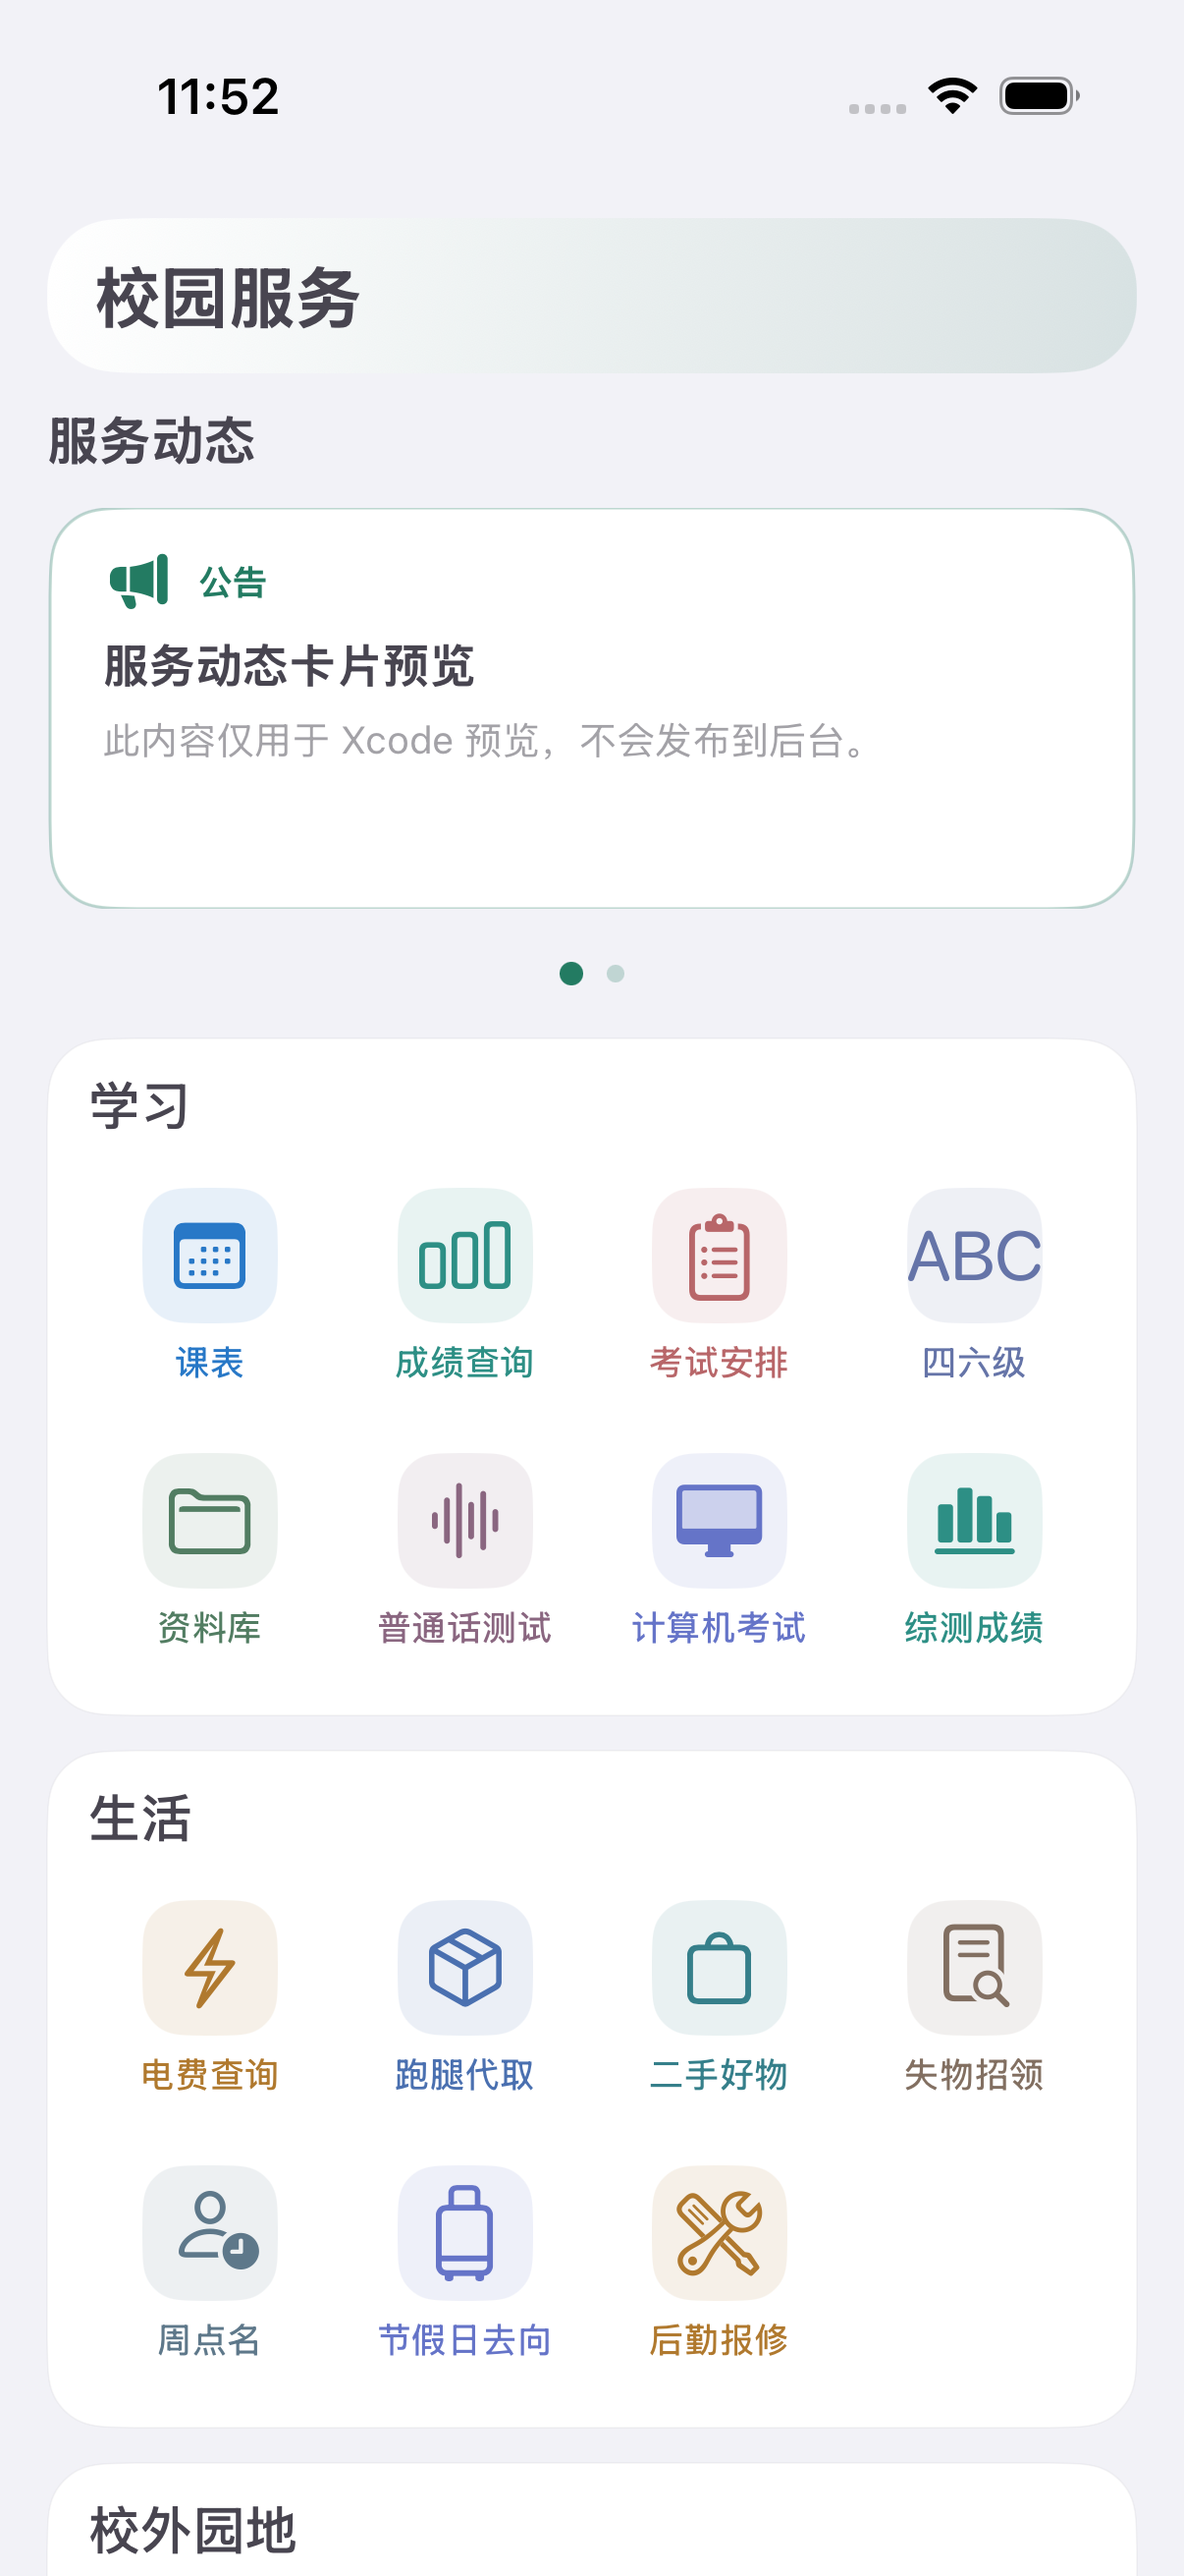
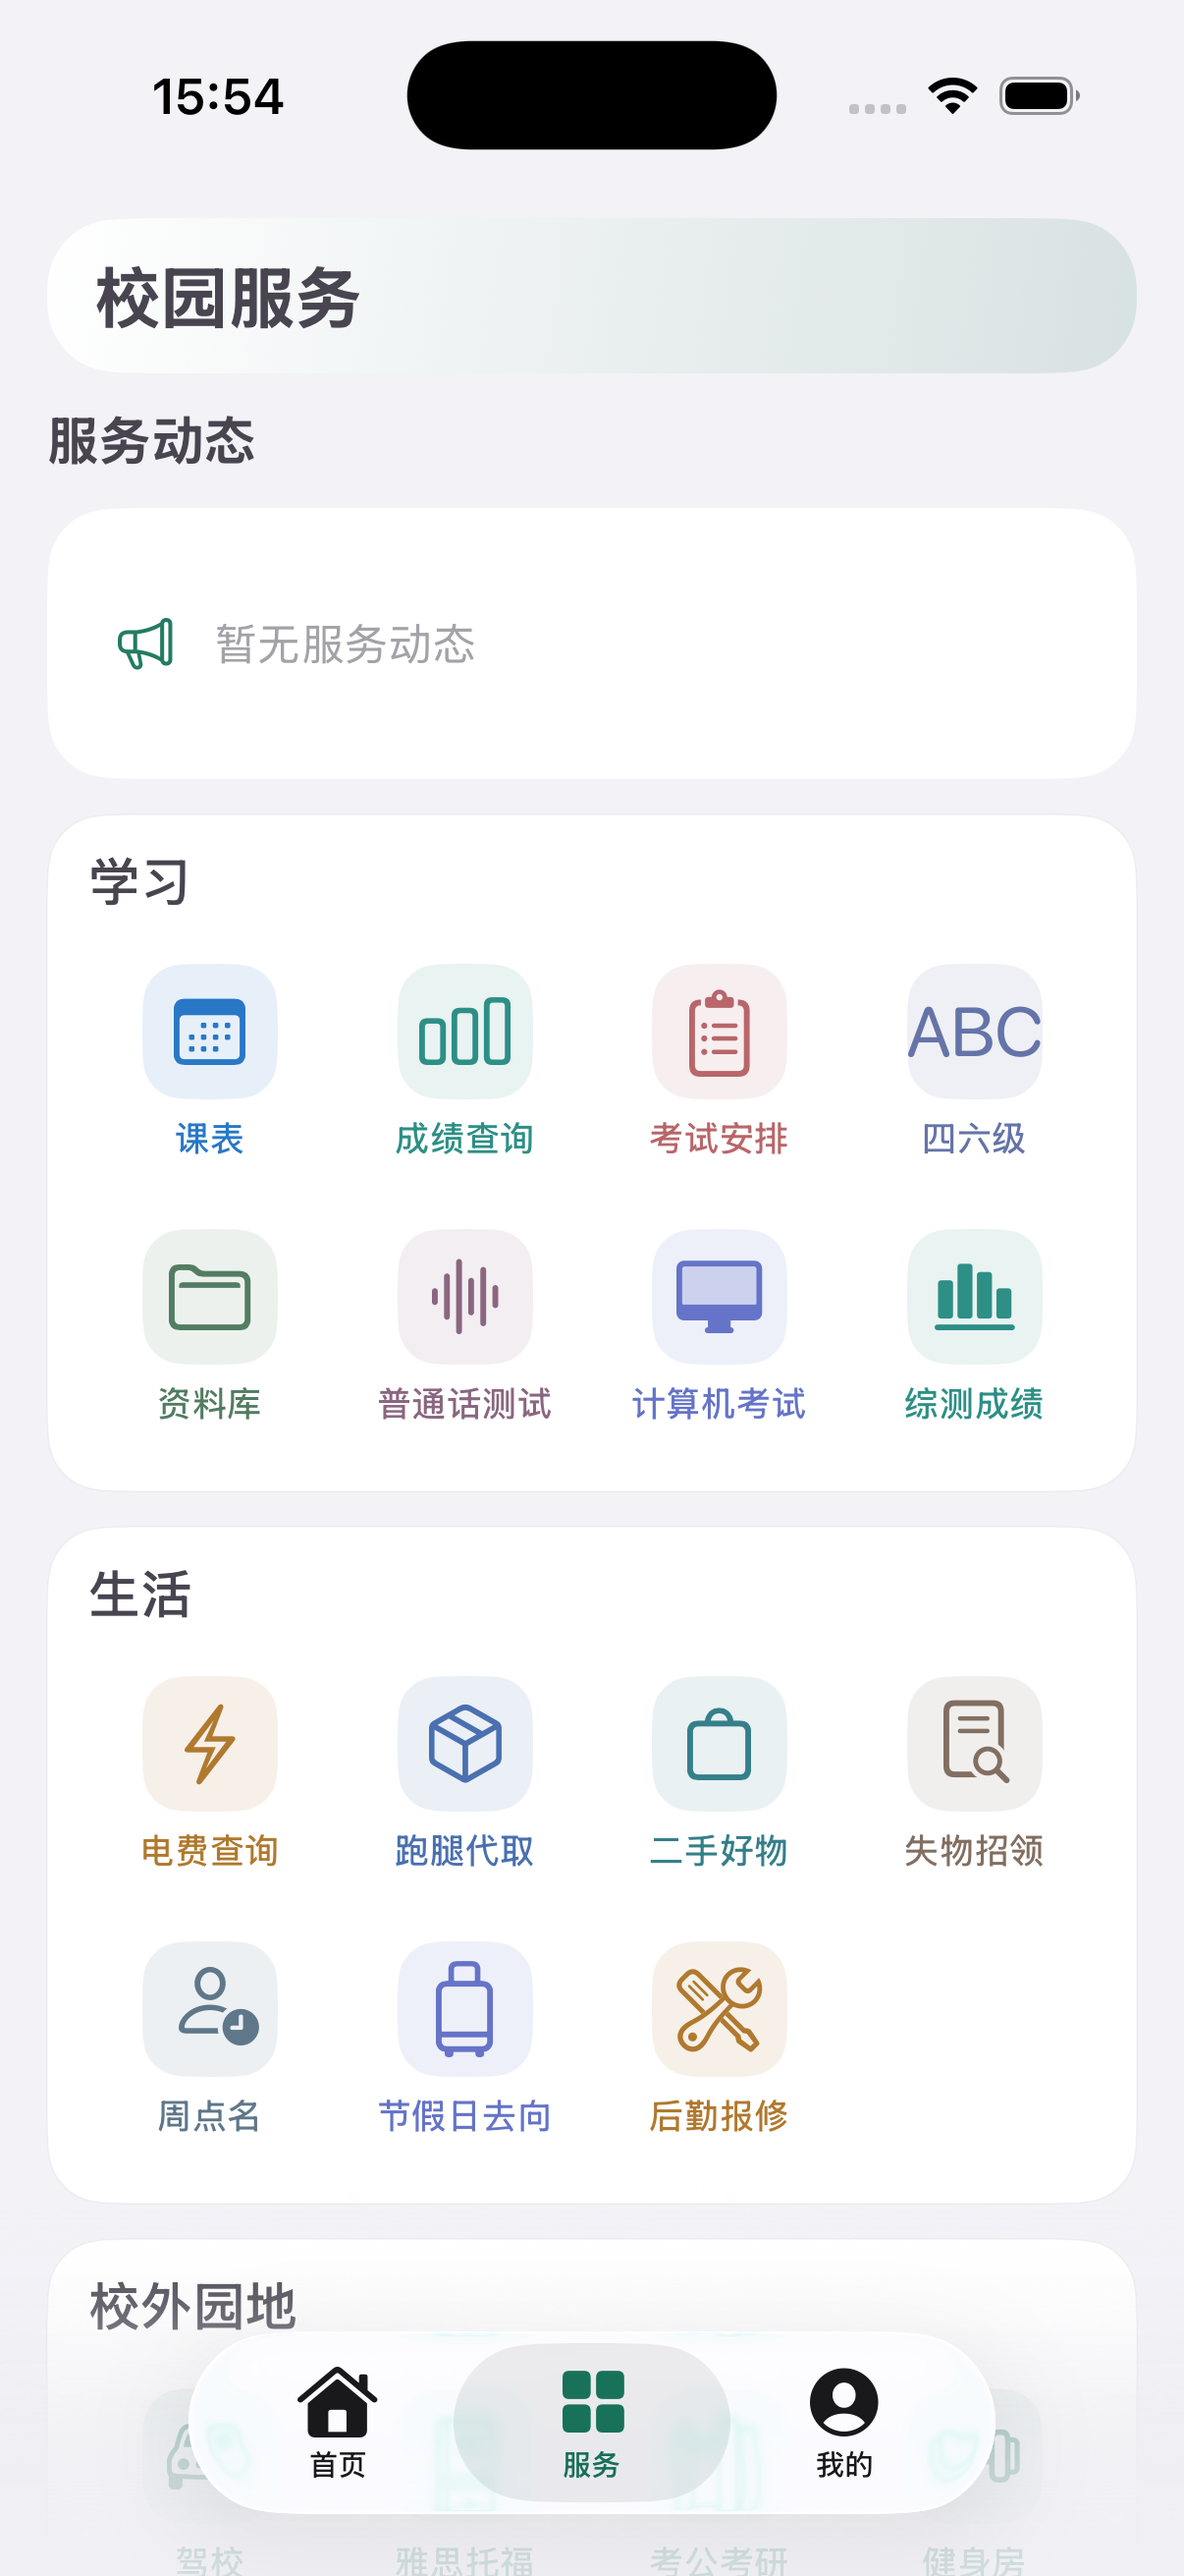
Update MyChuannong website content

diff --git a/privacy.html b/privacy.html
@@ -75,7 +75,7 @@
 <div>
 <h2>学校登录资料与账号关联</h2>
 
-<p>同意本版政策后，应用读取本人登录后的学校资料，将姓名、学号、学校返回的年级或入学年份发送到我的川农后台，供超级管理员完整查看使用学生、设备及最近活跃时间。未登录平台账号时手机号为空，登录后关联该平台账号的注册手机号。年级使用学校明确返回值，或根据学校入学年份以九月为学年边界换算；无来源则留空，不按学号猜测。姓名与学号加密保存，观察记录保留180天；解除学校绑定后在下次前台联网时删除该安装的学校资料，注销时删除对应记录。客户端读取不自动等同于后台人工核验。学校密码、验证码、Cookie、令牌、课表、成绩和考试不上报。</p>
+<p>同意本版政策后，应用读取本人登录后的学校资料，将姓名、学号、学校返回的年级或入学年份发送到我的川农后台，供超级管理员查看学生资料、设备及最近活跃时间。未登录平台账号时手机号为空，登录后关联该平台账号的注册手机号。年级使用学校明确返回值，或根据学校入学年份以九月为学年边界换算；无来源则留空，不按学号猜测。姓名与学号加密保存，观察记录保留180天；解除学校绑定后在下次前台联网时删除该安装的学校资料，注销时删除对应记录。客户端读取不自动等同于后台人工核验。学校密码、验证码、Cookie、令牌、课表、成绩和考试不上报。</p>
 </div>
 </section>
 
@@ -155,7 +155,7 @@
 <div>
 <h2>共享和公开展示</h2>
 
-<p>不会将学校认证和学习数据共享给自有后台或机构。社区发布时，您选择公开的内容及联系方式会向其他用户展示；机构预约只向处理预约所需的授权运营人员提供必要信息。第三方跑腿和外部链接由您主动进入，不自动转交平台密码或学校凭据。新增处理目的或信息种类时，先更新告知并在需要时重新取得同意。</p>
+<p>学校认证凭据、会话及课表、成绩和考试数据不会上传我的川农后台或提供给机构。姓名、学号及学校返回的年级或入学年份按上文所述上传我的川农后台，不提供给机构。社区发布时，您选择公开的内容及联系方式会向其他用户展示；机构预约只向处理预约所需的授权运营人员提供必要信息。第三方跑腿和外部链接由您主动进入，不自动转交平台密码或学校凭据。新增处理目的或信息种类时，先更新告知并在需要时重新取得同意。</p>
 </div>
 </section>
 
@@ -163,7 +163,7 @@
 <div>
 <h2>您的权利与联系途径</h2>
 
-<p>您可在平台账号页查看、更正资料、退出登录或以当前密码申请注销；在绑定学号中解除学校绑定；在账号与数据管理中清除缓存。查阅、复制、更正、删除或撤回同意的请求，可通过“我的 → 意见反馈”提交，勿附密码或验证码。停止使用可直接关闭应用；如要移除后台账号资料，请使用注销入口。收到信息权利请求后，我们会核实身份并在十五个工作日内答复。</p>
+<p>您可在平台账号页查看、更正资料、退出登录或以当前密码申请注销；在绑定学号中解除学校绑定；在账号与数据管理中清除缓存。查阅、复制、更正、删除或撤回同意的请求，可通过“我的 → 我的川农官网（最新消息）→ 联系与反馈”提交，勿附密码或验证码。停止使用可直接关闭应用；如要移除后台账号资料，请使用注销入口。收到信息权利请求后，我们会核实身份并在十五个工作日内答复。</p>
 </div>
 </section>
 
@@ -171,7 +171,7 @@
 <div>
 <h2>未成年人及政策更新</h2>
 
-<p>未满十四周岁者请勿自行提交个人信息；如发现此类信息，请通过意见反馈联系处理。政策更新会在协议入口标明版本；处理目的、方式或信息范围发生变化时重新征求同意。当前版本更新日期为 2026 年 10 月 26 日。</p>
+<p>未满十四周岁者请勿自行提交个人信息；如发现此类信息，请通过意见反馈联系处理。政策更新会在协议入口标明版本；处理目的、方式或信息范围发生变化时重新征求同意。本版处理范围确定于 2026 年 10 月 26 日，文字澄清于 2026 年 11 月 4 日。</p>
 </div>
 </section>
 </div>

diff --git a/collection.html b/collection.html
@@ -73,7 +73,7 @@
 <div>
 <h2>学校登录资料</h2>
 
-<p>同意本版政策后，应用读取本人登录后的学校资料，将姓名、学号、学校返回的年级或入学年份发送到我的川农后台，供超级管理员完整查看使用学生、设备及最近活跃时间。未登录平台账号时手机号为空，登录后关联该平台账号的注册手机号。年级使用学校明确返回值，或根据学校入学年份以九月为学年边界换算；无来源则留空，不按学号猜测。姓名与学号加密保存，观察记录保留180天；解除学校绑定后在下次前台联网时删除该安装的学校资料，注销时删除对应记录。客户端读取不自动等同于后台人工核验。学校密码、验证码、Cookie、令牌、课表、成绩和考试不上报。</p>
+<p>同意本版政策后，应用读取本人登录后的学校资料，将姓名、学号、学校返回的年级或入学年份发送到我的川农后台，供超级管理员查看学生资料、设备及最近活跃时间。未登录平台账号时手机号为空，登录后关联该平台账号的注册手机号。年级使用学校明确返回值，或根据学校入学年份以九月为学年边界换算；无来源则留空，不按学号猜测。姓名与学号加密保存，观察记录保留180天；解除学校绑定后在下次前台联网时删除该安装的学校资料，注销时删除对应记录。客户端读取不自动等同于后台人工核验。学校密码、验证码、Cookie、令牌、课表、成绩和考试不上报。</p>
 </div>
 </section>
 

diff --git a/index.html b/index.html
@@ -71,9 +71,9 @@
 </div>
 
 <div class="hero-visual" aria-label="我的川农 iOS 模拟器界面预览">
-<div class="phone-frame"><img src="assets/images/ios-services-preview.png" width="1206" height="2622" alt="我的川农校园服务页面，iOS 模拟器预览，包含示例内容"></div>
+<div class="phone-frame"><img src="assets/images/ios-services-preview.png" width="1206" height="2622" alt="我的川农校园服务页面，iOS 模拟器截图"></div>
 
-<div class="visual-card"><strong>校园服务，一目了然</strong><span>iOS 模拟器预览 · 示例内容</span></div>
+<div class="visual-card"><strong>校园服务，一目了然</strong><span>iOS 模拟器截图</span></div>
 </div>
 </div>
 </section>

diff --git a/README.md b/README.md
@@ -20,7 +20,7 @@ python3 -m http.server 5181 --bind 127.0.0.1
 - `guides.html`、`manual.html`：可搜索的入门指南及说明入口。
 - `privacy.html`、`terms.html`、`collection.html`、`third-parties.html`、`services.html`：网站说明以及应用 iOS 2026-10-26.1 版协议内容快照。应用协议变化后应同步核对；各平台以应用内当前版本为准。
 - `contact.html`、`commercial.html`、`thanks.html`：反馈、合作和致谢。
-- `assets/`：网站样式、脚本、应用图标和 iOS 界面预览。界面图为 iOS 模拟器中的 Xcode 预览，使用明确标注的示例内容，不含学生账号或学习数据。
+- `assets/`：网站样式、脚本、应用图标和 iOS 界面截图。界面图来自 iOS 模拟器，不含学生账号或学习数据。
 
 页面使用相对路径，可放在静态服务器根目录或子目录中。`config/site.json` 为公开配置，不得写入密码、密钥、个人隐私、测试账号或未授权公开的资料。
 
